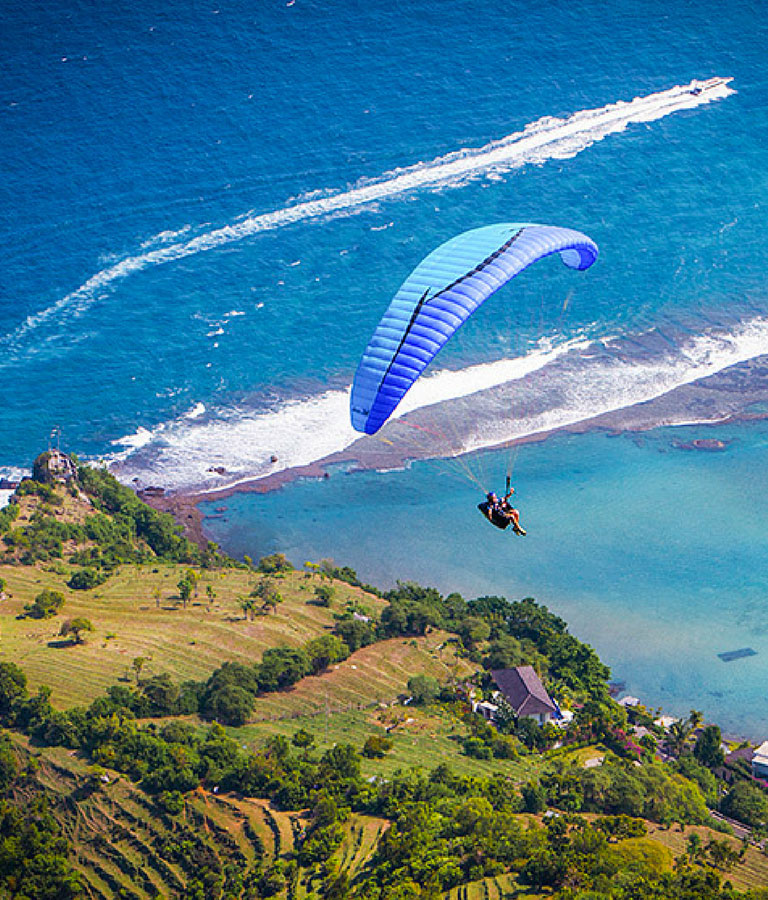
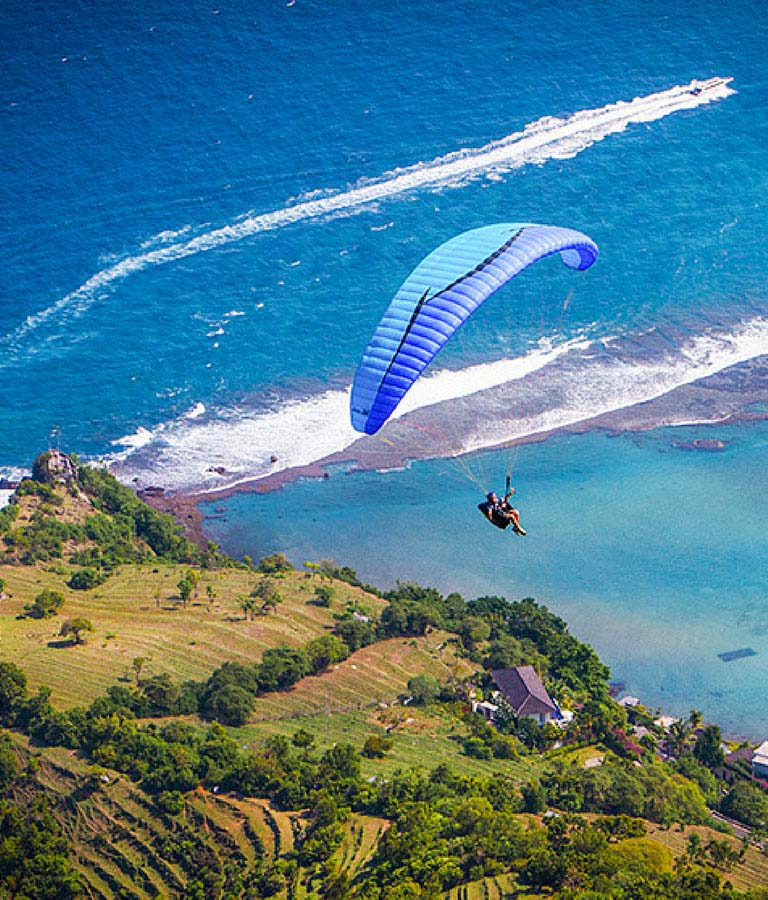
changed images to jpg

diff --git a/index.html b/index.html
@@ -236,15 +236,15 @@ _________________________________________________________ -->
                         <p class="lead" data-animate="fadeInUp">My most recent projects can be found below or visit my GitHub or LinkedIn pages for even more projects!</p>
                     </div>
                     <div>
-                            <div class='myworkContainer'><div><img src="/img/foodfinderfullscreen.png" class='img-myworks'alt="mywork pic" width="400"><img src="/img/foodfindermobile.png" class='img-myworks'alt="mywork pic" width="200"><img src="/img/foodfinderprofile.png" class='img-myworks'alt="mywork pic" width="200"><img src="/img/foodfindersearch.png" class='/img-myworks'alt="mywork pic" width="200"><img src="/img/foodfindershoppingcart.png" class='img-myworks'alt="mywork pic" width="200"></div>
+                            <div class='myworkContainer'><div><img src="/img/foodfinderfullscreen.jpg" class='img-myworks'alt="mywork pic" width="400"><img src="/img/foodfindermobile.jpg" class='img-myworks'alt="mywork pic" width="200"><img src="/img/foodfinderprofile.jpg" class='img-myworks'alt="mywork pic" width="200"><img src="/img/foodfindersearch.jpg" class='/img-myworks'alt="mywork pic" width="200"><img src="/img/foodfindershoppingcart.jpg" class='img-myworks'alt="mywork pic" width="200"></div>
                             <div class='myworktext'><h4><a href='https://github.com/theRealFoodFinder/food-finder'> GitHub </a>
                                  <!-- * <a href=''> Deployed App </a> * <a href=''> Video </a> -->
                             </h4>This is a full-stack responsive recipe searching app.  It was designed mobile first but still as a fully functional SPA.  It was the collaborative effort of four developers where we used NodeJS, SASS, and javascript for the front-end and express, auth0, massive, and postgreSQL for the backend.  The app is able to search recipes by ingredients, keep track of what you have in your household and prioritize recipes with those ingredients.  You can also save favorites and eliminate recipes from the search results by diet or allergies.  You can also filter results by fat, protein, calories, and more...</div></div>
-                            <div class='myworkContainer'><div><img src="/img/project2.png" class='img-myworks'alt="mywork pic" width="500"></div>
+                            <div class='myworkContainer'><div><img src="/img/project2.jpg" class='img-myworks'alt="mywork pic" width="500"></div>
                             <div class='myworktext'><h4><a href='https://github.com/FreeFlight-Code/PersonProject'> GitHub </a>
                                 <!-- * <a href=''> Deployed App </a> * <a href=''> Video </a> -->
                            </h4>Initially this was going to be my portfolio website with my projects but I didn't have the skills to do what I wanted so I revamped it into what you see here.  I am a fan of clean, responsive designs.  I am drawn to parallax and feelings of depth.  This is a full-stack application that uses React, Javascript, Auth0, PostgreSQL, and key-frames. </div></div>
-                            <div class='myworkContainer'><div><img src="/img/project3.png" class='img-myworks'alt="mywork pic" width="500"></div>
+                            <div class='myworkContainer'><div><img src="/img/project3.jpg" class='img-myworks'alt="mywork pic" width="500"></div>
                             <div class='myworktext'><h4><a href='https://github.com/FreeFlight-Code/NoServerProject'> GitHub </a>
                                 <!-- * <a href=''> Deployed App </a> * <a href=''> Video </a> -->
                            </h4>This is one of my first static websites.  I think seeing the growth and difference just a few months can make is astounding.  I utilized Javascript HTML and CSS.</div></div>
